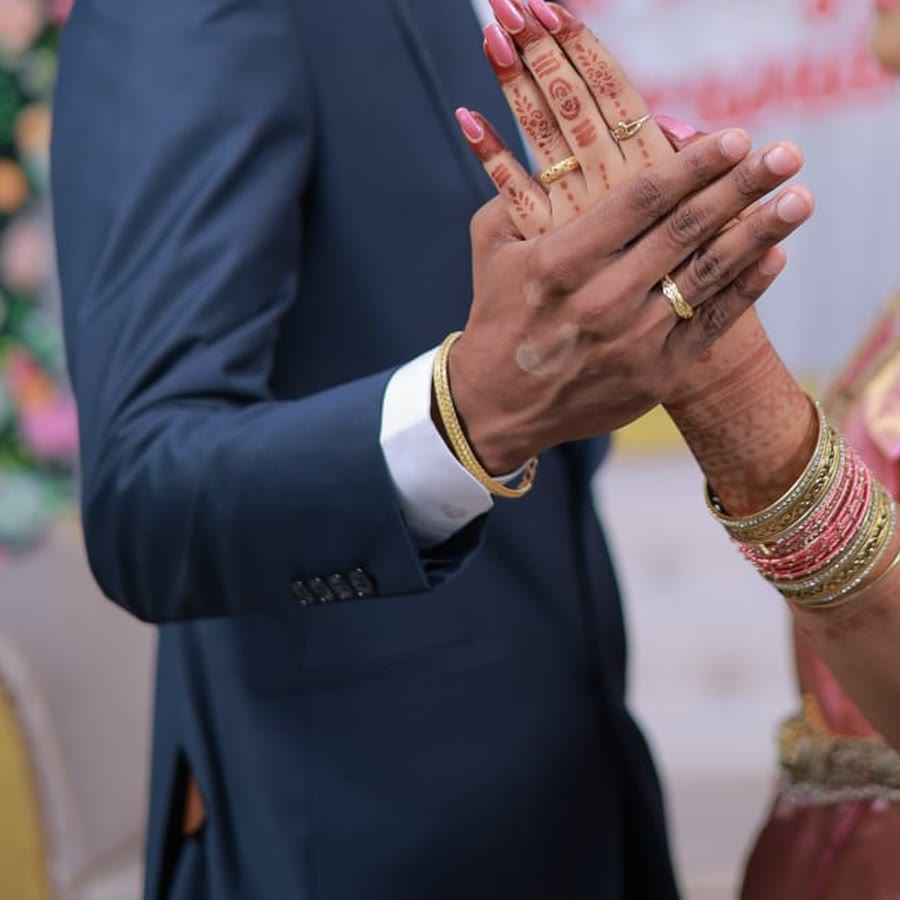
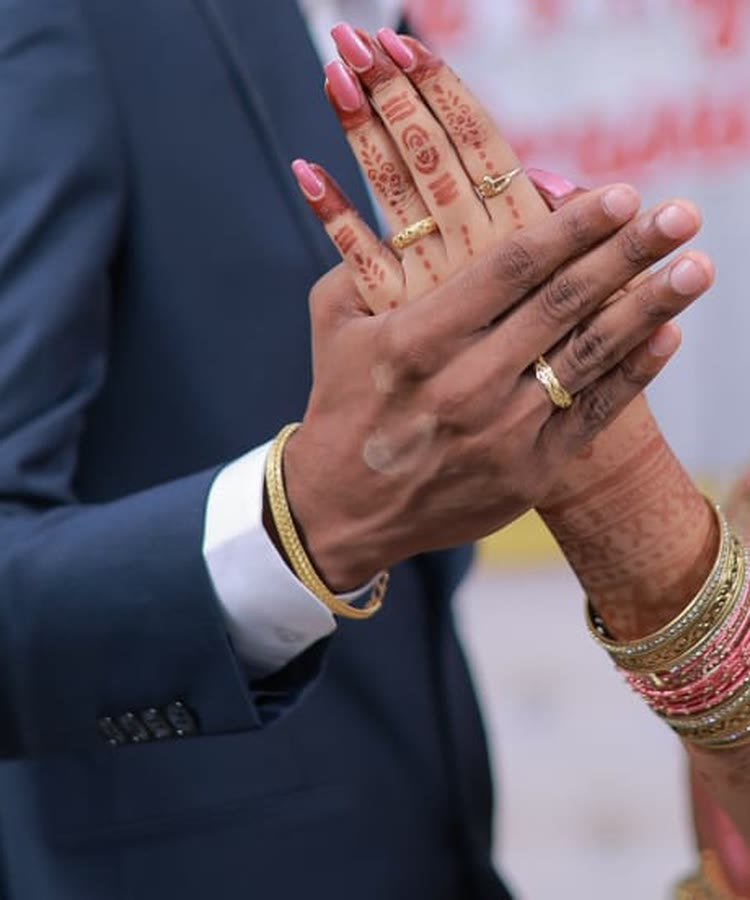
Use tighter portrait crop for link preview

diff --git a/index.html b/index.html
@@ -12,9 +12,9 @@
     <meta property="og:description" content="Join us on Sunday, 23 August 2026 in Aralvaimozhi." />
     <meta
       property="og:image"
-      content="https://siva2231.github.io/marriage-invitation/assets/joined-hands-social-preview.jpg?v=4"
+      content="https://siva2231.github.io/marriage-invitation/assets/joined-hands-social-preview.jpg?v=5"
     />
-    <meta property="og:image:width" content="900" />
+    <meta property="og:image:width" content="750" />
     <meta property="og:image:height" content="900" />
     <meta property="og:image:type" content="image/jpeg" />
     <meta property="og:image:alt" content="Siva and Geetha joining their hands" />
